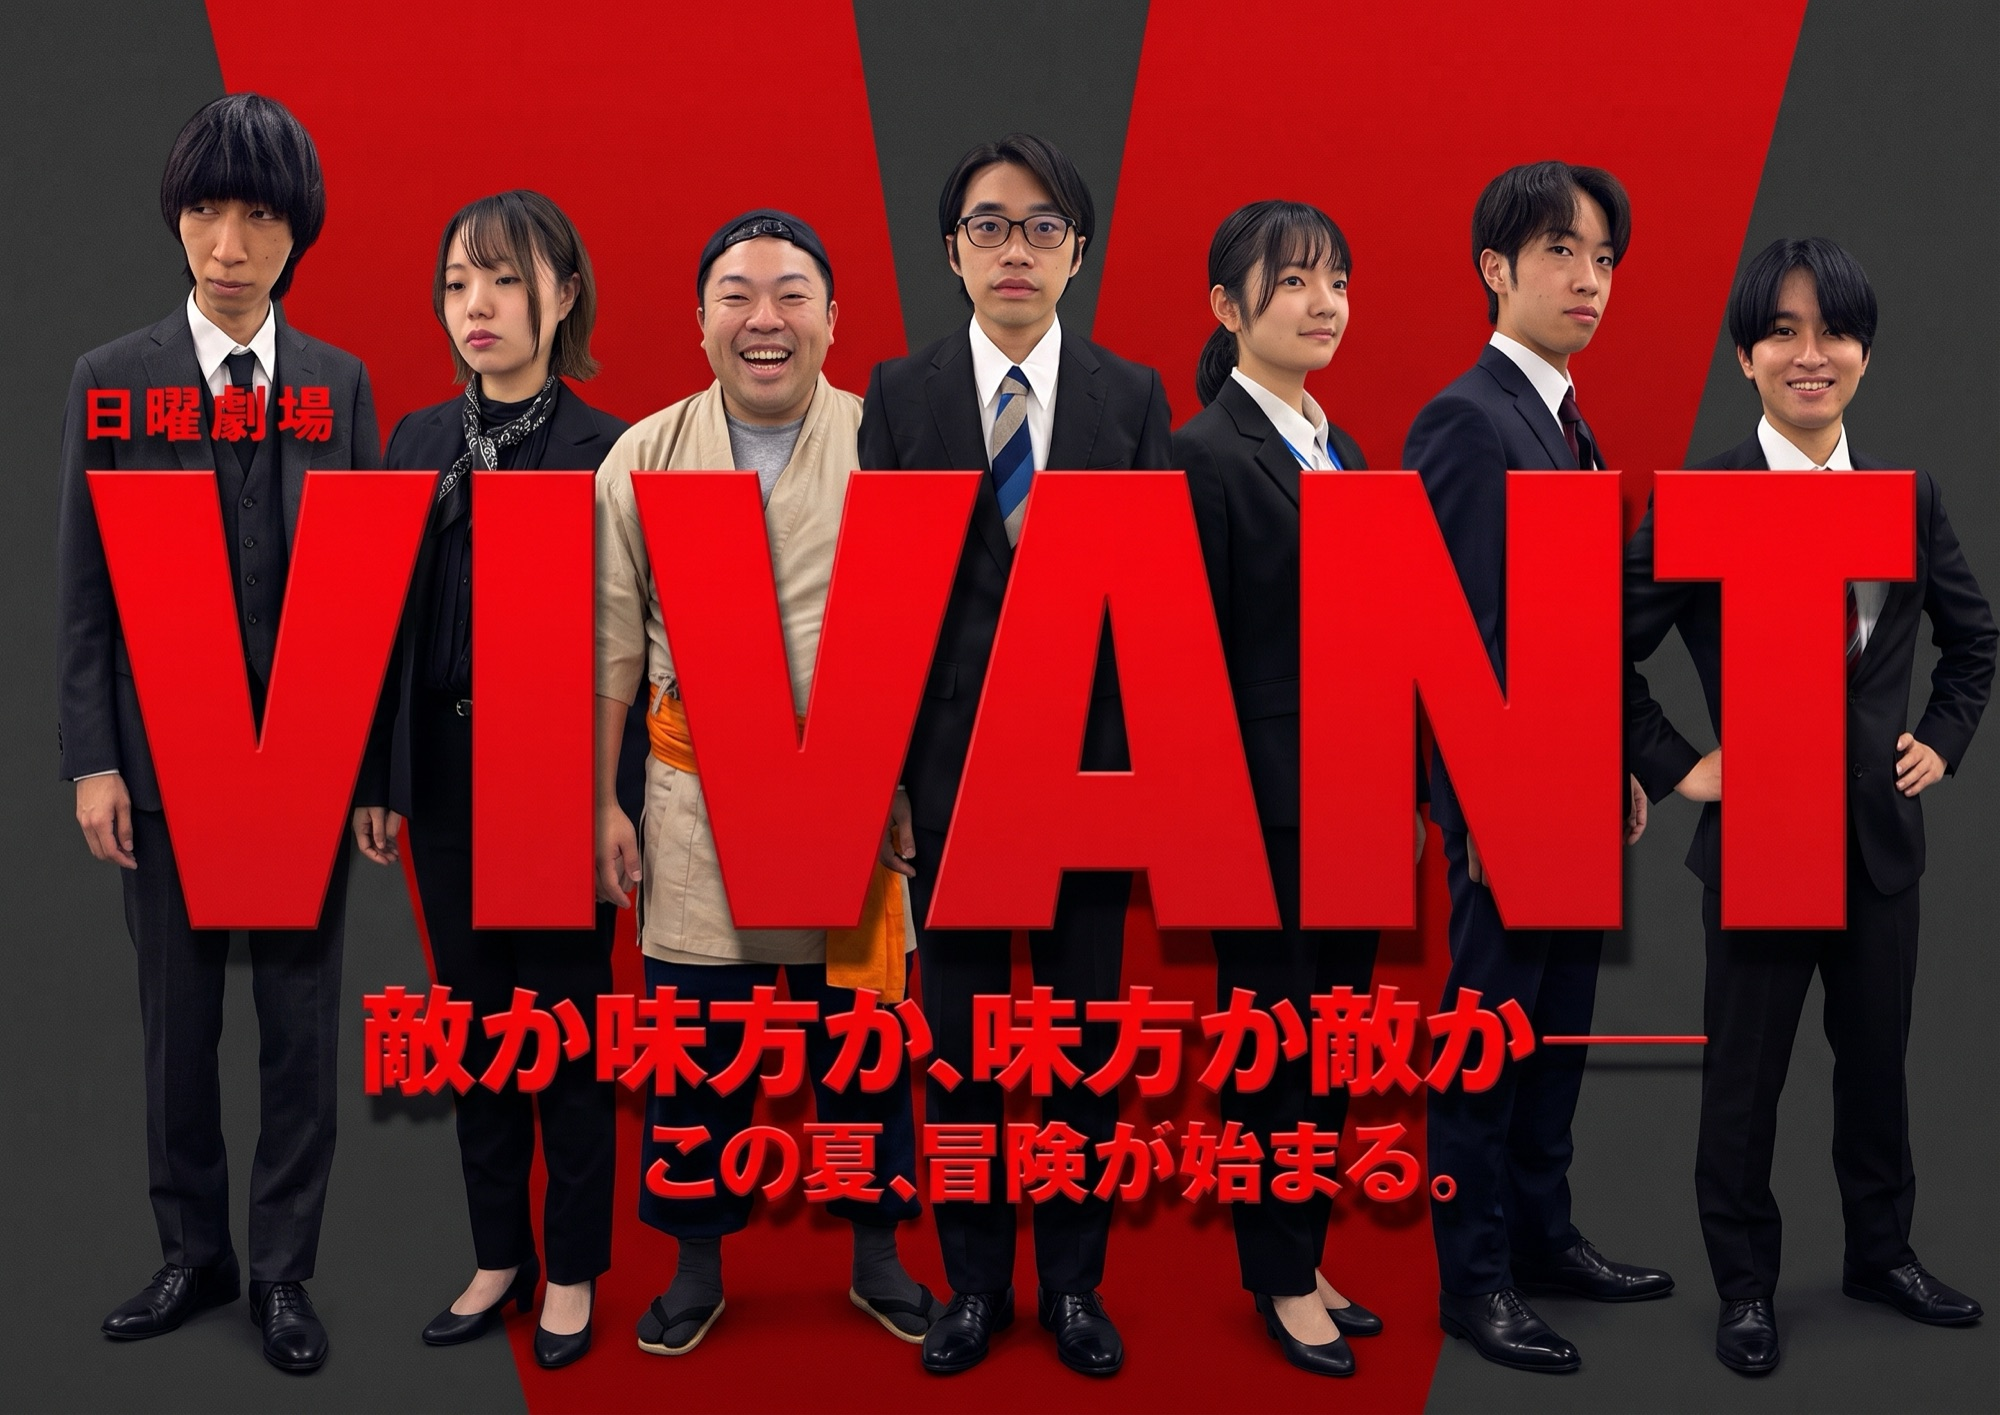
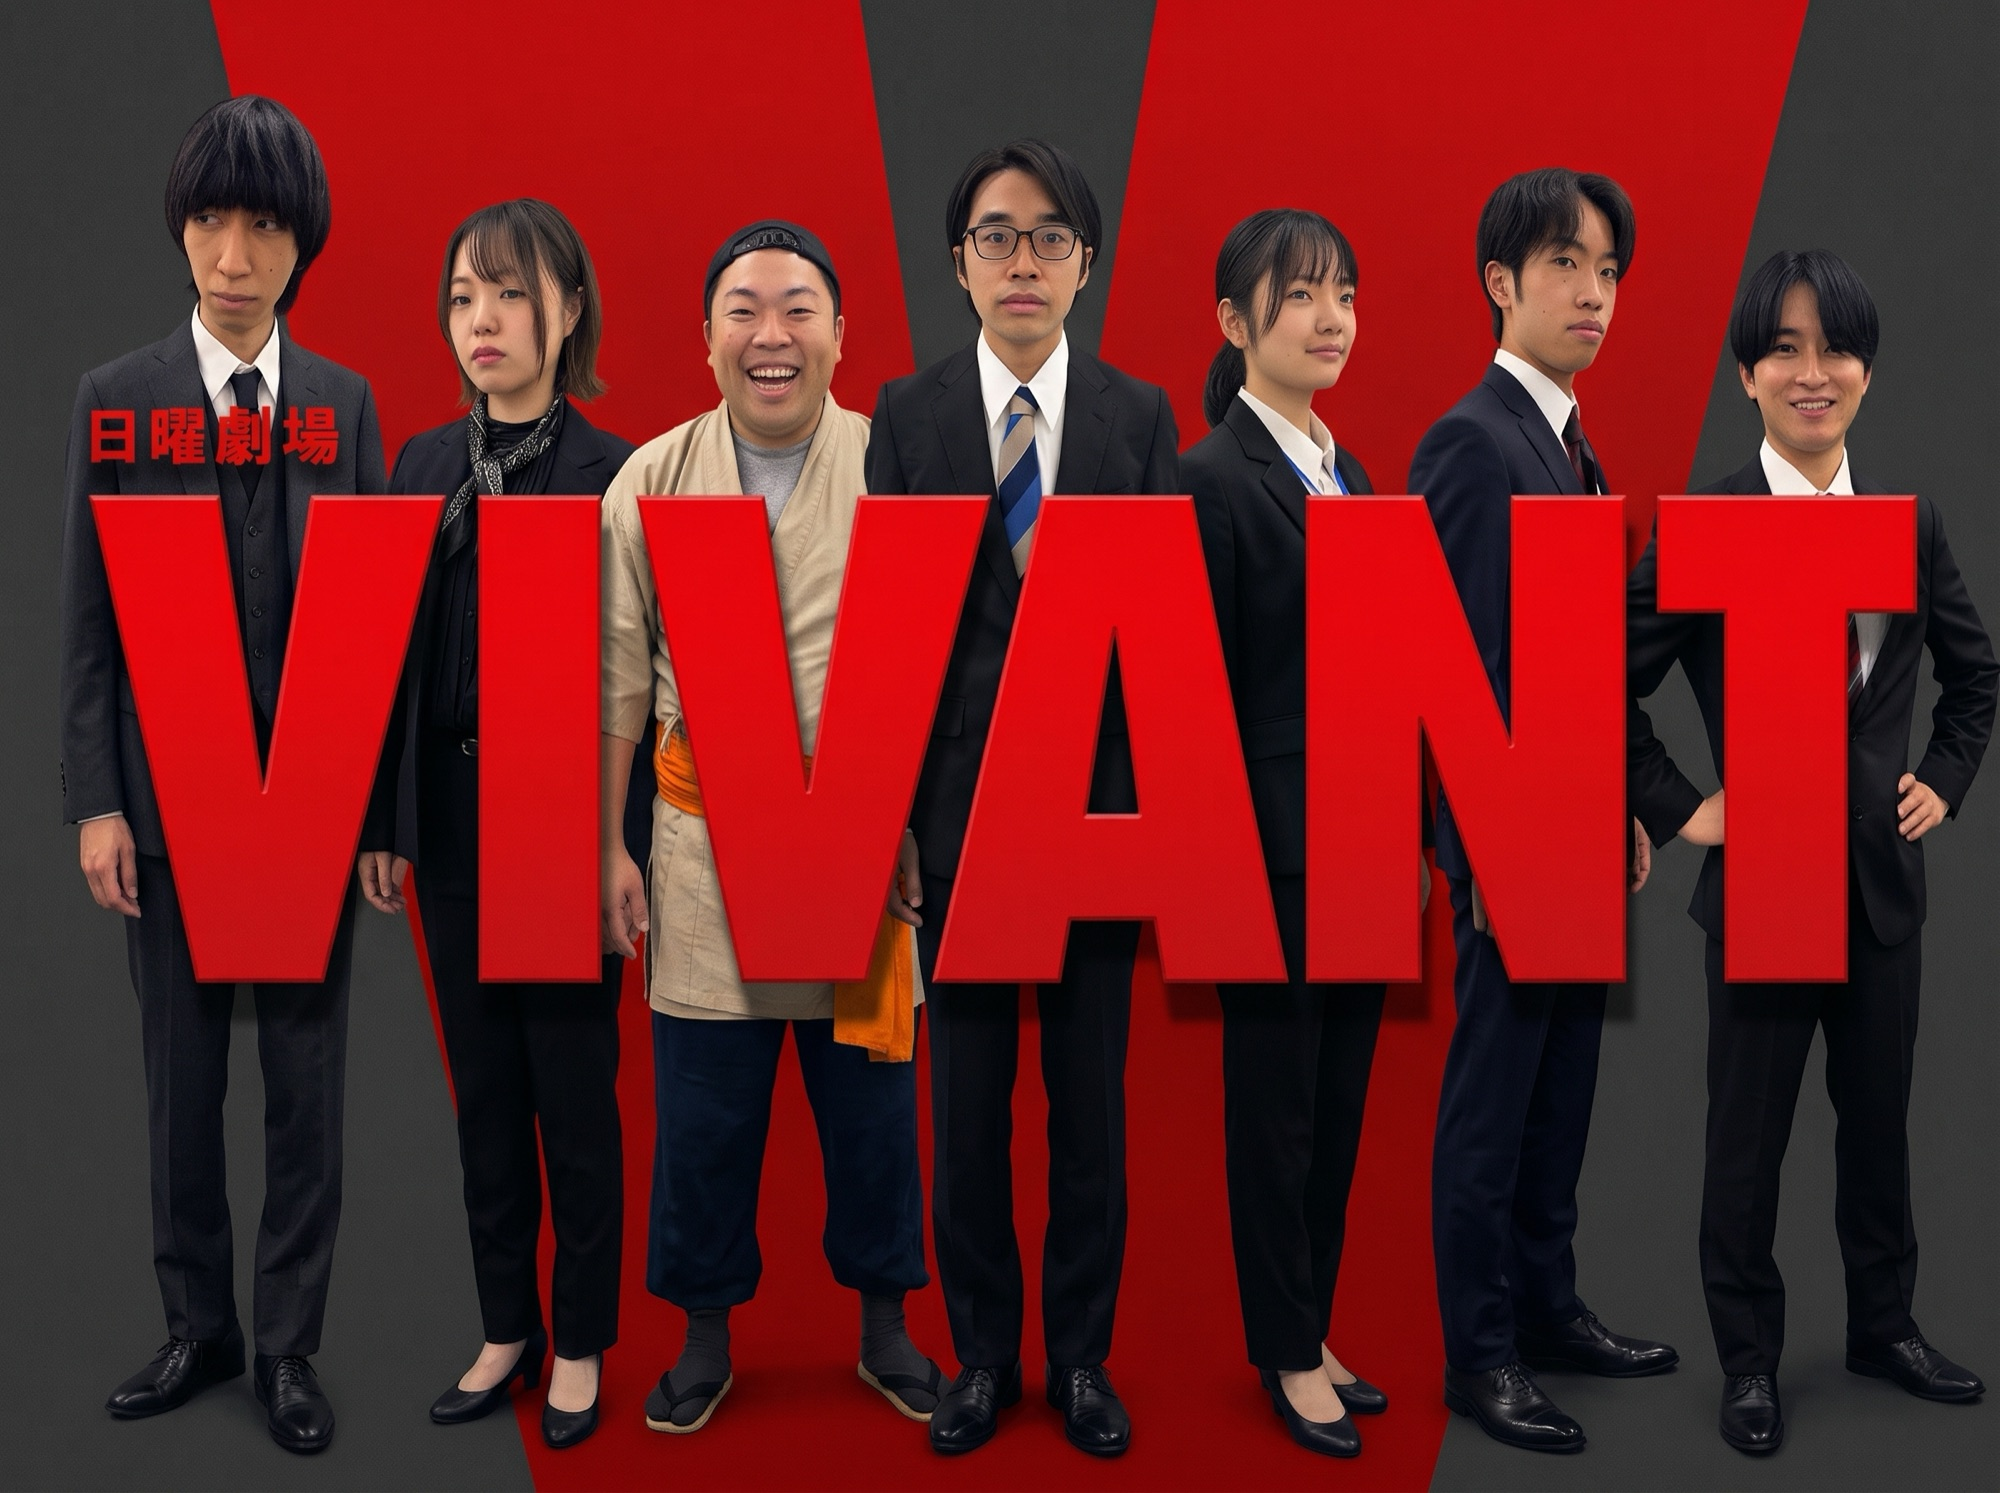
Replace the title poster

diff --git a/index.html b/index.html
@@ -25,8 +25,8 @@
           class="intro-poster"
           src="Images_Poster/vivant-poster.jpg"
           width="2000"
-          height="1415"
-          alt="赤いVIVANTのロゴを背に並ぶ7人のメンターのポスター。「敵か味方か、味方か敵か―― この夏、冒険が始まる。」"
+          height="1493"
+          alt="赤いVIVANTのロゴを背に並ぶ7人のメンターのポスター。"
         />
 
         <div id="intro-content" class="intro-content is-counting">
